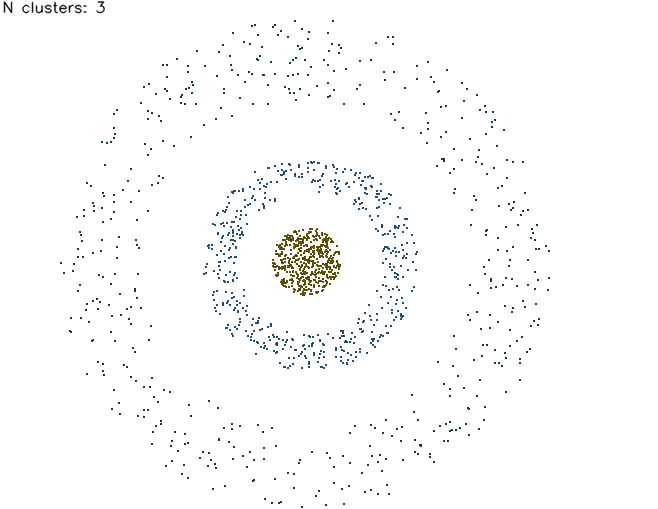
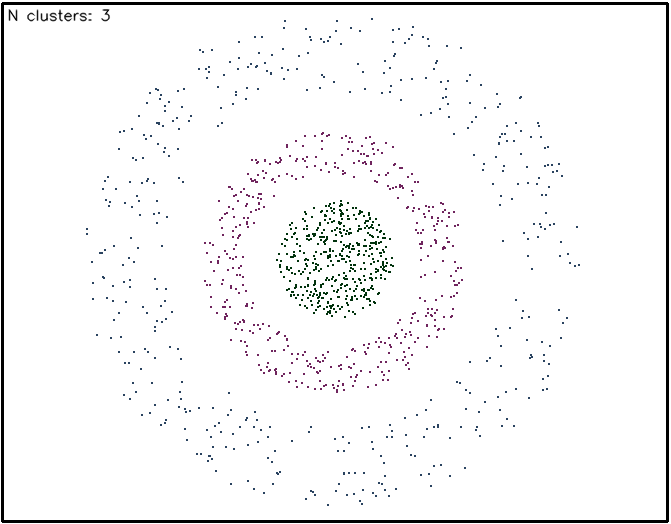
Updated readme & figures

diff --git a/spectral_clustering/windows.py b/spectral_clustering/windows.py
@@ -583,11 +583,12 @@ class ClustersWindow(PlotWindow):
         points = self._values['points']
         cluster_ids = self._values['cluster_ids']
         k = self.app.windows[Windows.toolbar].get_value('k')
+        alg_name = self.app.windows[Windows.toolbar].get_value('algorithm')
 
         colors4 = add_alpha(colors, 0.5) / 255.
         plot_clustering(axes, points, colors4, cluster_ids, image_size=self._bbox_size, alpha=0.5)
         # add title
-        axes.set_title("Clustering (k=%i)" % k)
+        axes.set_title("%s clustering (k=%i)" % (alg_name, k))
         fig.tight_layout()
         self._disp_img = self._plotter.render_fig(fig)
 

diff --git a/spectral_clustering/README.md b/spectral_clustering/README.md
@@ -57,15 +57,15 @@ Where $\mathbb{1}_{|W|}$ is the column vector of 1's with as many entries as $W$
 
 Run:  `> python cluster_creator.py` to start the demo.
 
-  ### The Canvas, Toolbar, and Similarity graph:
+  ### The Canvas, Toolbar, and Similarity graph (weight matrix):
   
 ![datasets](/spectral_clustering/assets/cluster_UI_and_toolbar.png)
 
 The tools at the bottom let the user choose:
-*  A **Cluster Type** to draw a cluster on the canvas.  The central control point can be used to move clusters, the larger peripheral one to resize/rotate it, and the smaller to change the aspect ratio.  The "Num Pts" slider sets all clusters to contain that number of points.  (And new ones will be created with that number.)  Dragging a cluster's center out of bounds will delete that cluster.
+*  A **Cluster Type** to draw a cluster on the canvas.  The center control point can be used to move clusters, the larger axis control point to resize/rotate the cluster, and the smaller to change its aspect ratio.  The "Num Pts" slider sets all clusters to contain that number of points.  (And new ones will be created with that number.)  Dragging a cluster's center out of bounds will delete that cluster.  These four clusters can be added to the canvas:
     * Gaussian - A 2-d multivariate normal with an ellipse at 1-sd.
     * Ellipse - A uniform distribution within the boundary.
-    * Annulus - Ring of points.  Experiment with one cluster inside the other (see below).
+    * Annulus - Ring of points.  Experiment with clusters inside clusters (see below).
     * Sierpinski - The fractal.  Create a set of points for which many possible numbers of clusters are equally valid.  Observe the results in the spectrum.
 
 * One of the **Sim Graph** types, described in the previous section.  It's parameter area is above the "Run" and "Clear" button.  The image shows the "Full" similarity graph is selected and its parameter $\sigma$ is set to 43.859 (units are raw pixel distances).
@@ -100,15 +100,15 @@ K-means has no hope of recovering the natural clusters since it relies on convex
 
   ![datasets](/spectral_clustering/assets/kmeans_fail.png)
 
-whereas spectral clustering can:
+whereas spectral clustering can because it looks for partitions that have points with mutually high similarity:
 
   ![datasets](/spectral_clustering/assets/spectral_win.png)
 
 
 ## The Graph View:
 
-The hotkey 'g' toggles showing the edges that exist between vertices given current paramete values for the binary similarity graph methods, N-neighbors and epsilon.  (It is very slow and not useful for the other two):
+The hotkey 'g' toggles showing the edges that exist between vertices given current paramete values for the binary similarity graph methods, N-neighbors and epsilon.  (It is very slow and not useful for the other two).  For the concentric rings example, using the N-neighbors graph with N=8 and allowing non-mutual neighbors, this looks like:
 
 ![datasets](/spectral_clustering/assets/graph_view.png)
 
-The parameters indicated in the toolbar explain the success of the spectral algorithm:  it succeeded in recovering the three concentric clusters because the values for the algorithm parameters (using an N-nearest sim. graph with N=8 and non-mutual edges allowed) created a graph with no edges between vertices in different clusters, and at least one edge from every point to another point in the same cluster.
+The parameters indicated in the toolbar explain the success of the spectral algorithm:  it succeeded in recovering the three concentric clusters because parameter settings created a graph with only three edges between points in different clusters (so the clusters are easily separable) and where every point has several edges to other points in the same cluster (so there are no stragglers/outliers).
